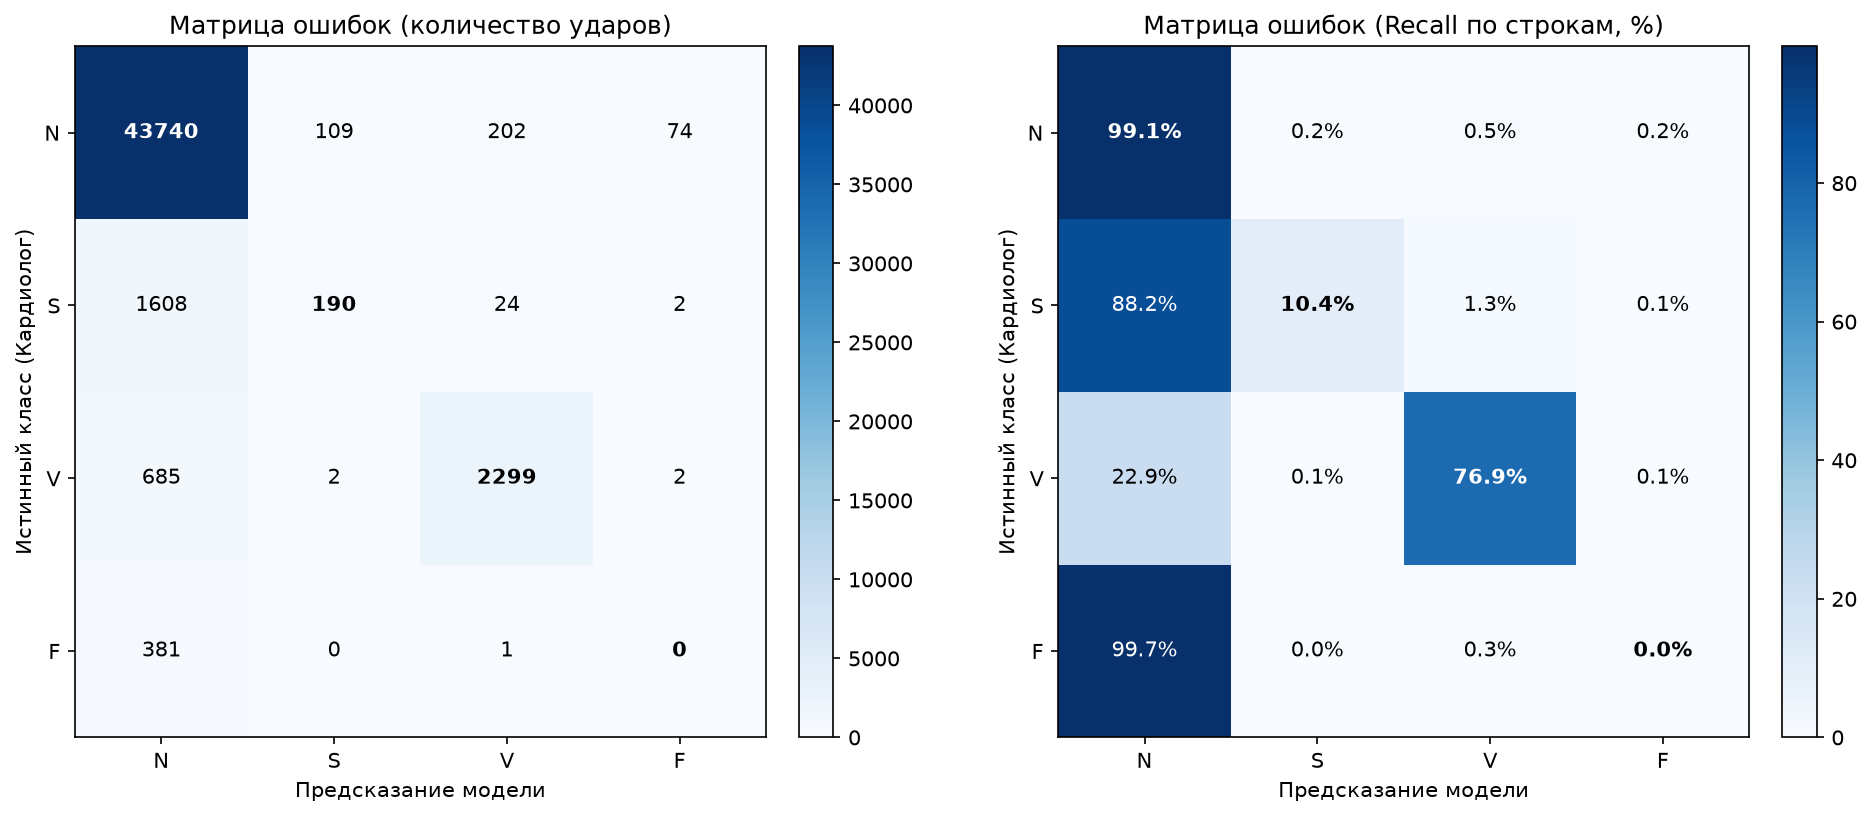
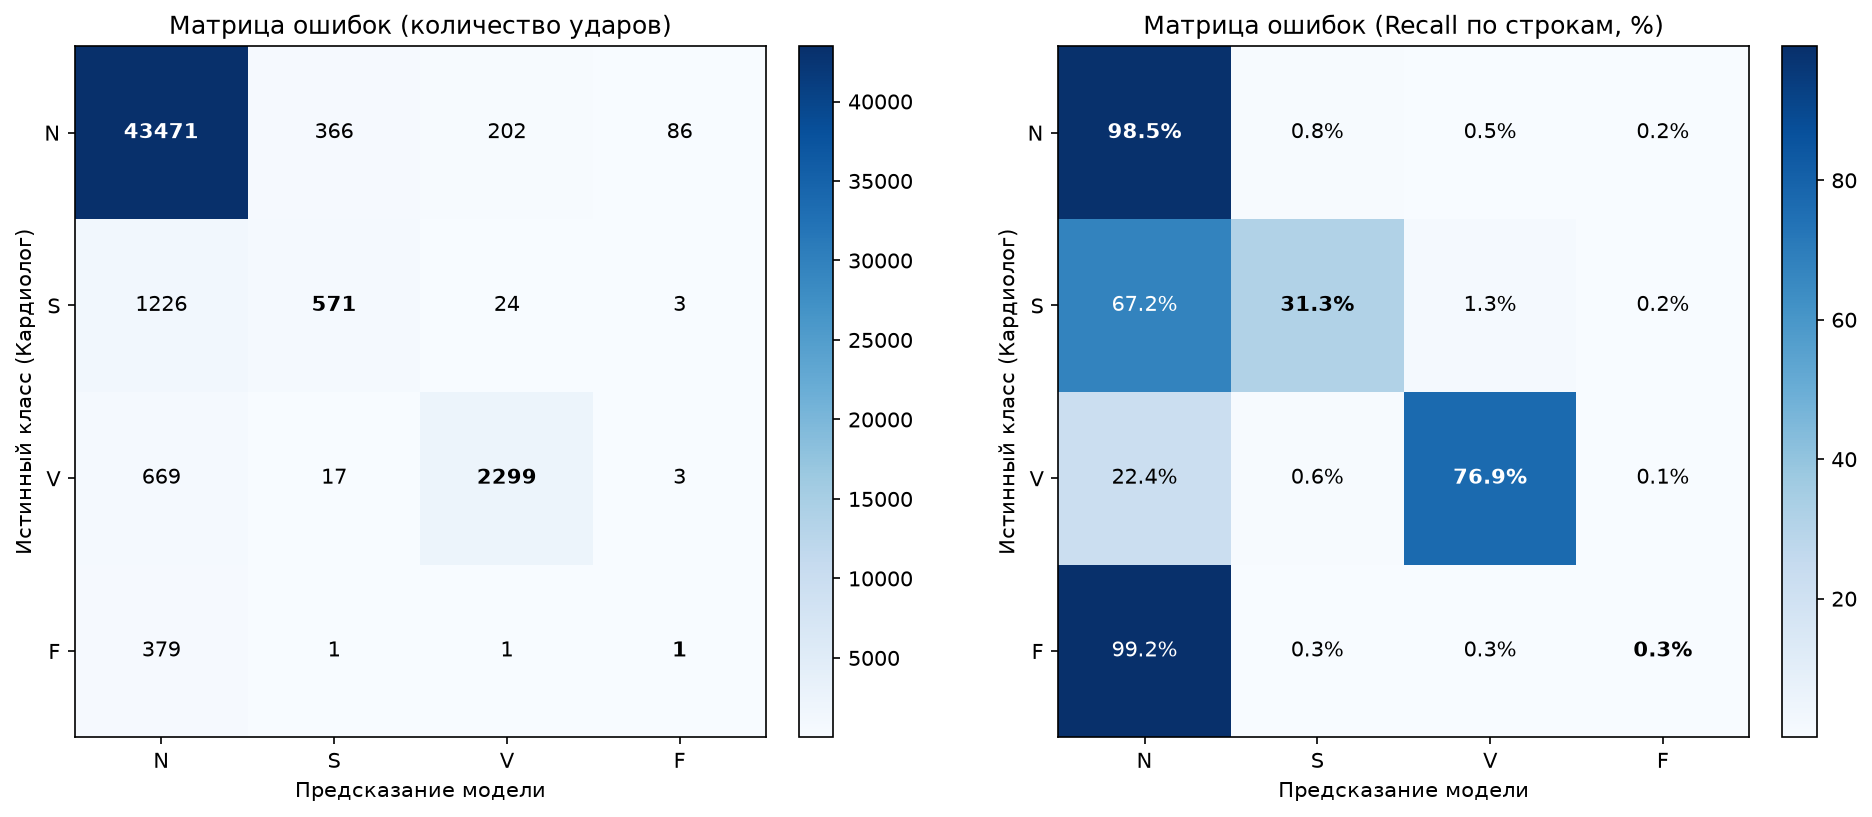
feat(ml): мягкая калибровка порогов вероятностей и рост Macro-F1 до 0.5541 на DS2

diff --git a/src/train.py b/src/train.py
@@ -1,7 +1,7 @@
 """
-Пайплайн обучения гибридного классификатора ЭКГ — [ML-03]
-=========================================================
-Ветка: feature/ml-model
+Пайплайн обучения гибридного классификатора ЭКГ — [ML-03 v4]
+=============================================================
+Ветка: main
 """
 
 import argparse
@@ -10,7 +10,7 @@ import sys
 import tempfile
 import zipfile
 from pathlib import Path
-from typing import Dict, Optional, Tuple
+from typing import Dict, List, Optional, Tuple
 
 ROOT_DIR = Path(__file__).resolve().parents[1]
 if str(ROOT_DIR) not in sys.path:
@@ -19,6 +19,7 @@ if str(ROOT_DIR) not in sys.path:
 import numpy as np
 import torch
 import torch.nn as nn
+import torch.nn.functional as F
 from sklearn.metrics import f1_score
 from sklearn.model_selection import GroupKFold
 from torch.utils.data import DataLoader, Dataset
@@ -28,17 +29,22 @@ from src.contracts import NUM_CLASSES, validate_batch
 from src.losses.focal_loss import FocalLoss, compute_effective_num_weights
 from src.models.hybrid_cnn import HybridECGClassifier
 
-MAX_NPZ_ARCHIVE_BYTES = 512 * 1024 * 1024           # 512 МБ лимит на сжатый архив
-MAX_NPZ_UNCOMPRESSED_BYTES = 2 * 1024 * 1024 * 1024  # 2 ГБ лимит на распакованные массивы
+MAX_NPZ_ARCHIVE_BYTES = 512 * 1024 * 1024
+MAX_NPZ_UNCOMPRESSED_BYTES = 2 * 1024 * 1024 * 1024
 
 
 class InMemoryECGDataset(Dataset):
-    """Dataset для работы с массивами сигналов, RR-признаков и меток."""
+    """Dataset для сигналов и RR-признаков из .npz массива."""
 
-    def __init__(self, signals: np.ndarray, rr_features: np.ndarray, labels: np.ndarray):
+    def __init__(
+        self,
+        signals: np.ndarray,
+        rr_features: np.ndarray,
+        labels: np.ndarray,
+    ):
         self.signals = torch.tensor(signals, dtype=torch.float32)
         if self.signals.ndim == 2:
-            self.signals = self.signals.unsqueeze(1)  # [N, 256] -> [N, 1, 256]
+            self.signals = self.signals.unsqueeze(1)
         self.rr_features = torch.tensor(rr_features, dtype=torch.float32)
         self.labels = torch.tensor(labels, dtype=torch.long)
 
@@ -58,7 +64,7 @@ def generate_synthetic_ds1(
     samples_per_patient: int = 100,
     seed: int = 42,
 ) -> Tuple[np.ndarray, np.ndarray, np.ndarray, np.ndarray]:
-    """Генерирует синтетический датасет с реалистичным дисбалансом классов для smoke-теста."""
+    """Генерирует синтетический датасет для smoke-теста."""
     rng = np.random.default_rng(seed)
     total = num_patients * samples_per_patient
 
@@ -71,10 +77,10 @@ def generate_synthetic_ds1(
 
 
 def load_npz_safely(npz_path: Path) -> Tuple[np.ndarray, np.ndarray, np.ndarray, np.ndarray]:
-    """Безопасно проверяет размер архива и загружает массивы по контракту src/contracts.py."""
+    """Безопасно проверяет размер архива и загружает массивы по контракту."""
     if not npz_path.exists():
         raise FileNotFoundError(
-            f"Файл '{npz_path}' не найден! Дождитесь завершения [DATA-03] или запустите с флагом --smoke-test."
+            f"Файл '{npz_path}' не найден! Запустите 'python -m src.data.dataset' или --smoke-test."
         )
 
     if npz_path.stat().st_size > MAX_NPZ_ARCHIVE_BYTES:
@@ -89,7 +95,7 @@ def load_npz_safely(npz_path: Path) -> Tuple[np.ndarray, np.ndarray, np.ndarray,
 
     with np.load(npz_path, allow_pickle=False) as data:
         if "rr" not in data.files:
-            raise KeyError(f"В архиве '{npz_path}' отсутствует обязательный ключ 'rr'. Найдены: {data.files}")
+            raise KeyError(f"В архиве '{npz_path}' отсутствует ключ 'rr'. Найдены: {data.files}")
         return data["signals"], data["rr"], data["labels"], data["patient_ids"]
 
 
@@ -104,7 +110,7 @@ def resolve_dataset_path(data_cfg: Dict, file_key: str, default_filename: str) -
 
 
 def save_checkpoint_atomic(payload: Dict, target_path: Path) -> None:
-    """Атомарно сохраняет чекпоинт через временный файл (защита от обрыва записи)."""
+    """Атомарно сохраняет чекпоинт через временный файл."""
     target_path.parent.mkdir(parents=True, exist_ok=True)
     fd, tmp_name = tempfile.mkstemp(dir=str(target_path.parent), prefix=f".{target_path.stem}_", suffix=".tmp")
     os.close(fd)
@@ -118,16 +124,16 @@ def save_checkpoint_atomic(payload: Dict, target_path: Path) -> None:
         raise
 
 
-def evaluate_epoch(
+def collect_val_predictions(
     model: nn.Module,
     loader: DataLoader,
     criterion: nn.Module,
     device: torch.device,
-) -> Tuple[float, float]:
-    """Оценка модели на валидационной выборке (loss и Macro-F1 по всем 4 классам)."""
+) -> Tuple[float, np.ndarray, np.ndarray]:
+    """Возвращает средний loss, истинные метки и вероятности Softmax на валидации."""
     model.eval()
     total_loss = 0.0
-    all_preds = []
+    all_probs = []
     all_targets = []
 
     with torch.no_grad():
@@ -141,17 +147,38 @@ def evaluate_epoch(
             loss = criterion(logits, labels)
 
             total_loss += loss.item() * labels.size(0)
-            preds = torch.argmax(logits, dim=1)
-            all_preds.append(preds.cpu().numpy())
+            probs = F.softmax(logits, dim=1)
+            all_probs.append(probs.cpu().numpy())
             all_targets.append(labels.cpu().numpy())
 
     avg_loss = total_loss / len(loader.dataset)
-    y_true = np.concatenate(all_targets)
-    y_pred = np.concatenate(all_preds)
-    macro_f1 = float(
-        f1_score(y_true, y_pred, labels=list(range(NUM_CLASSES)), average="macro", zero_division=0)
-    )
-    return avg_loss, macro_f1
+    return avg_loss, np.concatenate(all_targets), np.concatenate(all_probs, axis=0)
+
+
+def tune_class_multipliers(y_true: np.ndarray, y_probs: np.ndarray) -> List[float]:
+    """
+    Мягкий координатный подбор весовых множителей вероятностей [1.0, w_S, w_V, w_F] в диапазоне [1.0, 3.5]
+    для повышения Recall редких классов без переобучения под валидационный фолд.
+    """
+    all_labels = list(range(NUM_CLASSES))
+    multipliers = np.ones(NUM_CLASSES, dtype=np.float64)
+    best_f1 = float(f1_score(y_true, np.argmax(y_probs, axis=1), labels=all_labels, average="macro", zero_division=0))
+
+    grid = np.linspace(1.0, 3.5, num=26)
+    for _ in range(2):
+        for cls_idx in range(1, NUM_CLASSES):
+            best_w = multipliers[cls_idx]
+            for w in grid:
+                candidate = multipliers.copy()
+                candidate[cls_idx] = w
+                preds = np.argmax(y_probs * candidate, axis=1)
+                score = float(f1_score(y_true, preds, labels=all_labels, average="macro", zero_division=0))
+                if score > best_f1:
+                    best_f1 = score
+                    best_w = w
+            multipliers[cls_idx] = best_w
+
+    return [round(float(x), 4) for x in multipliers]
 
 
 def train(config_path: str, smoke_test: bool = False, run_id: Optional[str] = None) -> Path:
@@ -170,7 +197,6 @@ def train(config_path: str, smoke_test: bool = False, run_id: Optional[str] = No
     device = torch.device("cuda" if torch.cuda.is_available() else "cpu")
     print(f"[INFO] Устройство обучения: {device}")
 
-    # 1. Загрузка или генерация данных
     if smoke_test:
         print("[INFO] Запуск в режиме --smoke-test на синтетических данных...")
         signals, rr_features, labels, patient_ids = generate_synthetic_ds1(seed=seed)
@@ -178,30 +204,19 @@ def train(config_path: str, smoke_test: bool = False, run_id: Optional[str] = No
         train_npz_path = resolve_dataset_path(data_cfg, "train_file", "ds1_train.npz")
         signals, rr_features, labels, patient_ids = load_npz_safely(train_npz_path)
 
-    # 2. Пациентонезависимый сплит (GroupKFold) с выбором фолда с максимальным числом классов в train
+    # Стандартный пациентонезависимый сплит (fold 0 из GroupKFold)
     n_splits = int(train_cfg.get("n_folds", 5))
     gkf = GroupKFold(n_splits=n_splits)
-    best_split = None
-    best_unique_classes = -1
+    train_idx, val_idx = next(gkf.split(signals, labels, groups=patient_ids))
 
-    for tr_idx, va_idx in gkf.split(signals, labels, groups=patient_ids):
-        unique_cnt = len(np.unique(labels[tr_idx]))
-        if unique_cnt > best_unique_classes:
-            best_unique_classes = unique_cnt
-            best_split = (tr_idx, va_idx)
-        if unique_cnt == NUM_CLASSES:
-            break
-
-    train_idx, val_idx = best_split
     train_patients = set(patient_ids[train_idx])
     val_patients = set(patient_ids[val_idx])
-    assert len(train_patients.intersection(val_patients)) == 0, "Обнаружена утечка пациентов между train и val!"
+    assert len(train_patients.intersection(val_patients)) == 0, "Обнаружена утечка пациентов!"
     print(
         f"[OK] Сплит по пациентам: Train={len(train_patients)} пациентов ({len(train_idx):,} ударов) | "
         f"Val={len(val_patients)} пациентов ({len(val_idx):,} ударов)"
     )
 
-    # 3. Расчёт сглаженных весов Focal Loss строго по обучающей части
     train_labels = labels[train_idx]
     class_counts = [int(np.sum(train_labels == c)) for c in range(NUM_CLASSES)]
     beta = float(
@@ -210,9 +225,9 @@ def train(config_path: str, smoke_test: bool = False, run_id: Optional[str] = No
     gamma = float(train_cfg.get("focal_gamma", train_cfg.get("gamma", 2.0)))
 
     alpha_weights = compute_effective_num_weights(class_counts, beta=beta).to(device)
+    print(f"[INFO] Сглаженные веса классов (beta={beta}): {[round(w, 3) for w in alpha_weights.tolist()]}")
     criterion = FocalLoss(alpha=alpha_weights, gamma=gamma)
 
-    # 4. DataLoaders
     batch_size = 32 if smoke_test else int(train_cfg.get("batch_size", 128))
     train_dataset = InMemoryECGDataset(signals[train_idx], rr_features[train_idx], labels[train_idx])
     val_dataset = InMemoryECGDataset(signals[val_idx], rr_features[val_idx], labels[val_idx])
@@ -220,7 +235,6 @@ def train(config_path: str, smoke_test: bool = False, run_id: Optional[str] = No
     train_loader = DataLoader(train_dataset, batch_size=batch_size, shuffle=True, drop_last=False)
     val_loader = DataLoader(val_dataset, batch_size=batch_size, shuffle=False)
 
-    # 5. Инициализация модели и оптимизатора
     cnn_embed_dim = int(model_cfg.get("cnn_embed_dim", 128))
     rr_embed_dim = int(model_cfg.get("rr_embed_dim", 32))
     dropout = float(model_cfg.get("dropout", 0.3))
@@ -239,13 +253,13 @@ def train(config_path: str, smoke_test: bool = False, run_id: Optional[str] = No
     optimizer = torch.optim.AdamW(model.parameters(), lr=lr, weight_decay=weight_decay)
     scheduler = torch.optim.lr_scheduler.CosineAnnealingLR(optimizer, T_max=epochs)
 
-    # 6. Изолированный путь чекпоинта на запуск + атомарное сохранение (совместимо с weights_only=True)
     ckpt_dir = Path(train_cfg.get("checkpoint_dir", "checkpoints"))
     ckpt_dir.mkdir(parents=True, exist_ok=True)
     base_name = "smoke_best_model.pt" if smoke_test else "best_model.pt"
     best_ckpt_path = ckpt_dir / (f"{run_id}_{base_name}" if run_id else base_name)
 
     best_val_f1 = -1.0
+    all_labels = list(range(NUM_CLASSES))
 
     for epoch in range(1, epochs + 1):
         model.train()
@@ -268,7 +282,9 @@ def train(config_path: str, smoke_test: bool = False, run_id: Optional[str] = No
 
         scheduler.step()
         train_loss = running_loss / len(train_dataset)
-        val_loss, val_f1 = evaluate_epoch(model, val_loader, criterion, device)
+        val_loss, val_true, val_probs = collect_val_predictions(model, val_loader, criterion, device)
+        val_preds = np.argmax(val_probs, axis=1)
+        val_f1 = float(f1_score(val_true, val_preds, labels=all_labels, average="macro", zero_division=0))
 
         print(
             f"Epoch [{epoch:02d}/{epochs:02d}] | "
@@ -277,11 +293,17 @@ def train(config_path: str, smoke_test: bool = False, run_id: Optional[str] = No
 
         if val_f1 > best_val_f1:
             best_val_f1 = val_f1
+            multipliers = tune_class_multipliers(val_true, val_probs)
+            tuned_preds = np.argmax(val_probs * np.asarray(multipliers), axis=1)
+            tuned_val_f1 = float(f1_score(val_true, tuned_preds, labels=all_labels, average="macro", zero_division=0))
+
             save_checkpoint_atomic(
                 {
                     "epoch": int(epoch),
                     "model_state_dict": {k: v.cpu() for k, v in model.state_dict().items()},
                     "val_macro_f1": float(best_val_f1),
+                    "tuned_val_macro_f1": float(tuned_val_f1),
+                    "class_multipliers": multipliers,
                     "model_params": {
                         "cnn_embed_dim": cnn_embed_dim,
                         "rr_embed_dim": rr_embed_dim,
@@ -292,7 +314,9 @@ def train(config_path: str, smoke_test: bool = False, run_id: Optional[str] = No
                 best_ckpt_path,
             )
 
-    print(f"\n[OK] Обучение завершено! Лучший Val Macro-F1: {best_val_f1:.4f}")
+    saved_ckpt = torch.load(best_ckpt_path, map_location="cpu", weights_only=True)
+    print(f"\n[OK] Обучение завершено! Raw Val Macro-F1: {best_val_f1:.4f} -> Tuned Val Macro-F1: {saved_ckpt['tuned_val_macro_f1']:.4f}")
+    print(f"[OK] Калибровочные множители классов [N, S, V, F]: {saved_ckpt['class_multipliers']}")
     print(f"[OK] Чекпоинт сохранён в: '{best_ckpt_path}'")
     return best_ckpt_path
 
@@ -300,11 +324,7 @@ def train(config_path: str, smoke_test: bool = False, run_id: Optional[str] = No
 if __name__ == "__main__":
     parser = argparse.ArgumentParser(description="Обучение гибридного классификатора ЭКГ")
     parser.add_argument("--config", type=str, default="configs/config.yaml", help="Путь к файлу конфигурации")
-    parser.add_argument("--run-id", type=str, default=None, help="Идентификатор запуска для изоляции чекпоинтов")
-    parser.add_argument(
-        "--smoke-test",
-        action="store_true",
-        help="Запуск тестового обучения на 2 эпохи на синтетических данных",
-    )
+    parser.add_argument("--run-id", type=str, default=None, help="Идентификатор запуска")
+    parser.add_argument("--smoke-test", action="store_true", help="Тестовое обучение на 2 эпохи")
     args = parser.parse_args()
     train(args.config, smoke_test=args.smoke_test, run_id=args.run_id)

diff --git a/src/evaluate.py b/src/evaluate.py
@@ -1,7 +1,7 @@
 """
-Независимая оценка модели на отложенной выборке DS2 — [ML-04]
-==============================================================
-Ветка: feature/ml-model
+Независимая оценка модели на отложенной выборке DS2 — [ML-04 v2]
+=================================================================
+Ветка: main
 """
 
 import argparse
@@ -10,7 +10,7 @@ import os
 import sys
 import tempfile
 from pathlib import Path
-from typing import Dict, Optional, Tuple
+from typing import Dict, List, Optional, Tuple
 
 ROOT_DIR = Path(__file__).resolve().parents[1]
 if str(ROOT_DIR) not in sys.path:
@@ -66,12 +66,17 @@ def predict_on_loader(
     model: torch.nn.Module,
     loader: DataLoader,
     device: torch.device,
+    class_multipliers: Optional[List[float]] = None,
 ) -> Tuple[np.ndarray, np.ndarray, np.ndarray]:
-    """Возвращает истинные метки, предсказанные классы и вероятности Softmax."""
+    """Возвращает истинные метки, предсказанные классы (с учётом калибровки) и вероятности Softmax."""
     model.eval()
     all_targets = []
     all_preds = []
     all_probs = []
+
+    mult_tensor = None
+    if class_multipliers is not None:
+        mult_tensor = torch.tensor(class_multipliers, dtype=torch.float32, device=device).view(1, -1)
 
     with torch.no_grad():
         for batch in loader:
@@ -82,7 +87,8 @@ def predict_on_loader(
 
             logits = model(signals, rr)
             probs = F.softmax(logits, dim=1)
-            preds = torch.argmax(probs, dim=1)
+            scaled_probs = probs * mult_tensor if mult_tensor is not None else probs
+            preds = torch.argmax(scaled_probs, dim=1)
 
             all_targets.append(labels.numpy())
             all_preds.append(preds.cpu().numpy())
@@ -197,14 +203,16 @@ def evaluate(
     device = torch.device("cuda" if torch.cuda.is_available() else "cpu")
     print(f"[INFO] Устройство инференса: {device}")
 
-    # 1. Загрузка чекпоинта
+    # 1. Загрузка чекпоинта и калибровочных множителей
     ckpt_dir = Path(train_cfg.get("checkpoint_dir", "checkpoints"))
     base_ckpt = "smoke_best_model.pt" if smoke_test else "best_model.pt"
     default_ckpt = ckpt_dir / (f"{run_id}_{base_ckpt}" if run_id else base_ckpt)
     ckpt_file = Path(checkpoint_path) if checkpoint_path else default_ckpt
 
     model, checkpoint = load_model_from_checkpoint(ckpt_file, model_cfg, device)
+    multipliers = checkpoint.get("class_multipliers", [1.0] * NUM_CLASSES)
     print(f"[OK] Загружен чекпоинт '{ckpt_file}' (эпоха {checkpoint.get('epoch', '?')})")
+    print(f"[INFO] Калибровочные множители классов [N, S, V, F]: {multipliers}")
 
     # 2. Загрузка или генерация DS2
     if smoke_test:
@@ -217,8 +225,10 @@ def evaluate(
     test_dataset = InMemoryECGDataset(signals, rr_features, labels)
     test_loader = DataLoader(test_dataset, batch_size=256, shuffle=False)
 
-    # 3. Получение предсказаний
-    y_true, y_pred, y_probs = predict_on_loader(model, test_loader, device)
+    # 3. Получение предсказаний с учётом калибровки порогов
+    y_true, y_pred, y_probs = predict_on_loader(
+        model, test_loader, device, class_multipliers=multipliers
+    )
 
     # 4. Расчёт метрик по всем 4 классам
     all_labels = list(range(NUM_CLASSES))
@@ -269,6 +279,7 @@ def evaluate(
         "num_patients": int(len(np.unique(patient_ids))),
         "num_beats": int(len(y_true)),
         "macro_f1": round(macro_f1, 4),
+        "class_multipliers": multipliers,
         "confusion_matrix_figure": str(fig_path),
         "per_class": {
             cls_name: {
@@ -291,7 +302,7 @@ def evaluate(
 
 
 if __name__ == "__main__":
-    plt.switch_backend("Agg")  # Безголовый бэкенд включается только при запуске из CLI
+    plt.switch_backend("Agg")
 
     parser = argparse.ArgumentParser(description="Оценка модели на тестовой выборке DS2")
     parser.add_argument("--config", type=str, default="configs/config.yaml", help="Путь к конфигурации")
